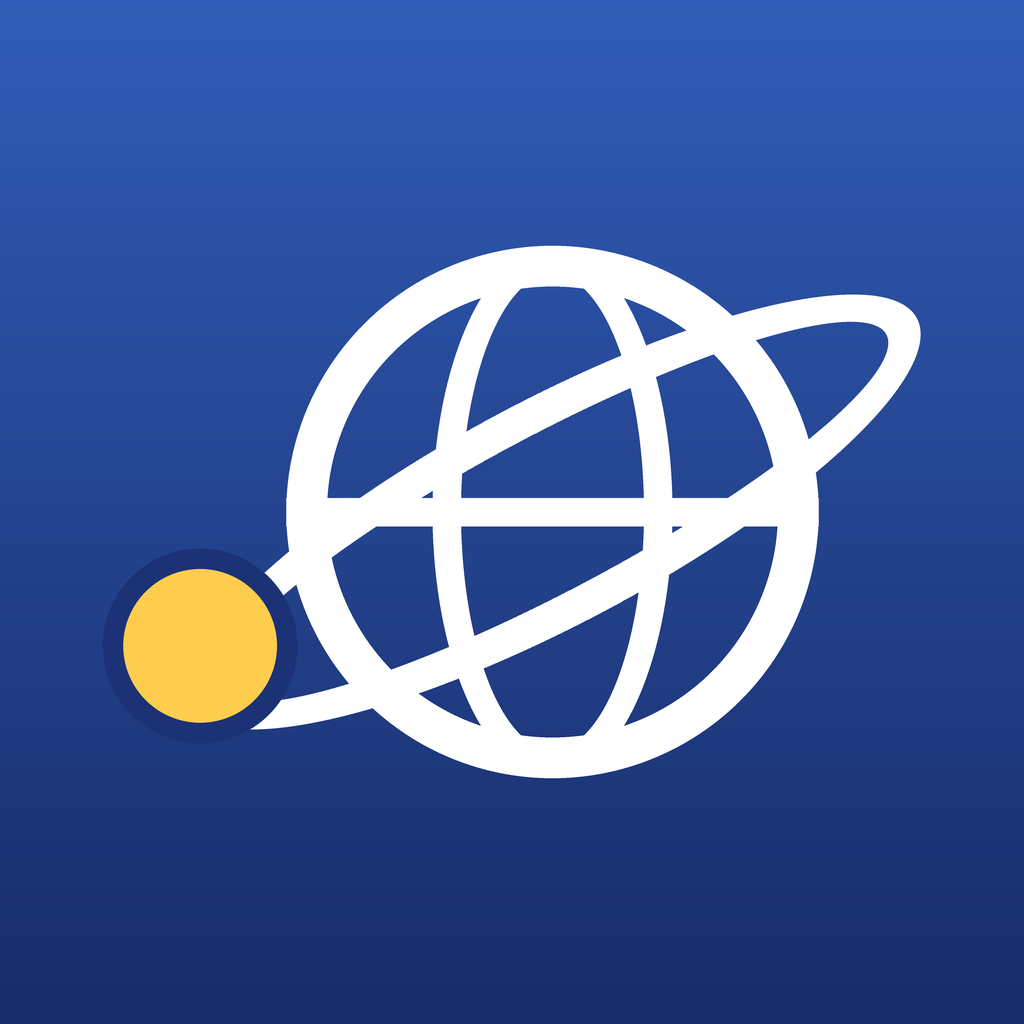
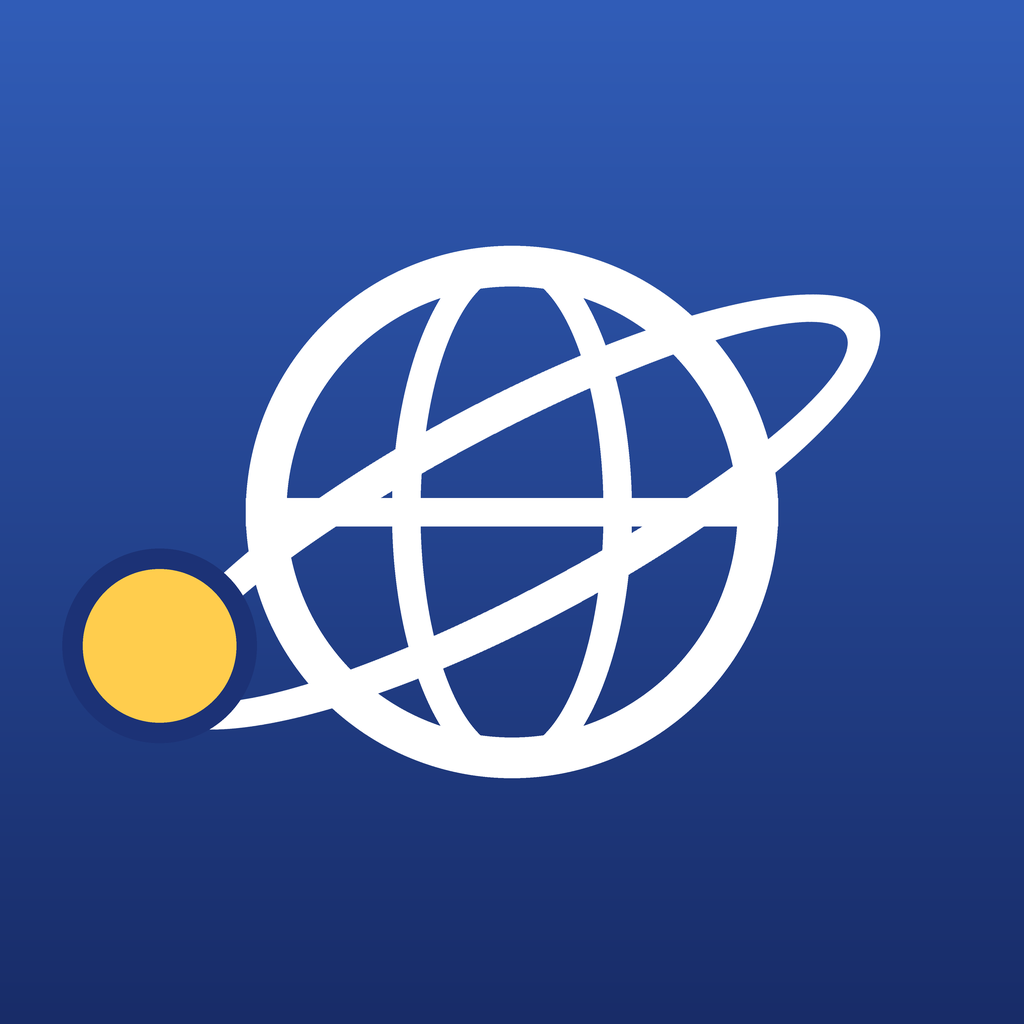
图标：地球圆心正中，四边距离相等
Claude-Session: https://claude.ai/code/session_01P3JKNYSkJmxCKrJadSzQ2i

Changed region(s): [[0.0625, 0.2188, 0.9062, 0.7812], [0.5312, 0.75, 0.5938, 0.7812], [0.5312, 0.2188, 0.5938, 0.25]]

diff --git a/index.html b/index.html
@@ -9,8 +9,8 @@
 <meta name="mobile-web-app-capable" content="yes">
 <meta name="apple-mobile-web-app-status-bar-style" content="default">
 <meta name="apple-mobile-web-app-title" content="PayGlobe">
-<link rel="apple-touch-icon" href="icons/apple-touch-icon-v5.png">
-<link rel="icon" type="image/png" sizes="192x192" href="icons/icon-192-v5.png">
+<link rel="apple-touch-icon" href="icons/apple-touch-icon-v6.png">
+<link rel="icon" type="image/png" sizes="192x192" href="icons/icon-192-v6.png">
 <link rel="manifest" href="manifest.json">
 <style>
 /* 布局：紧凑的两栏信息台（宽屏两栏、手机单栏）；每个功能区一条蓝底白字标题带，部分区块垫浅色底 */
